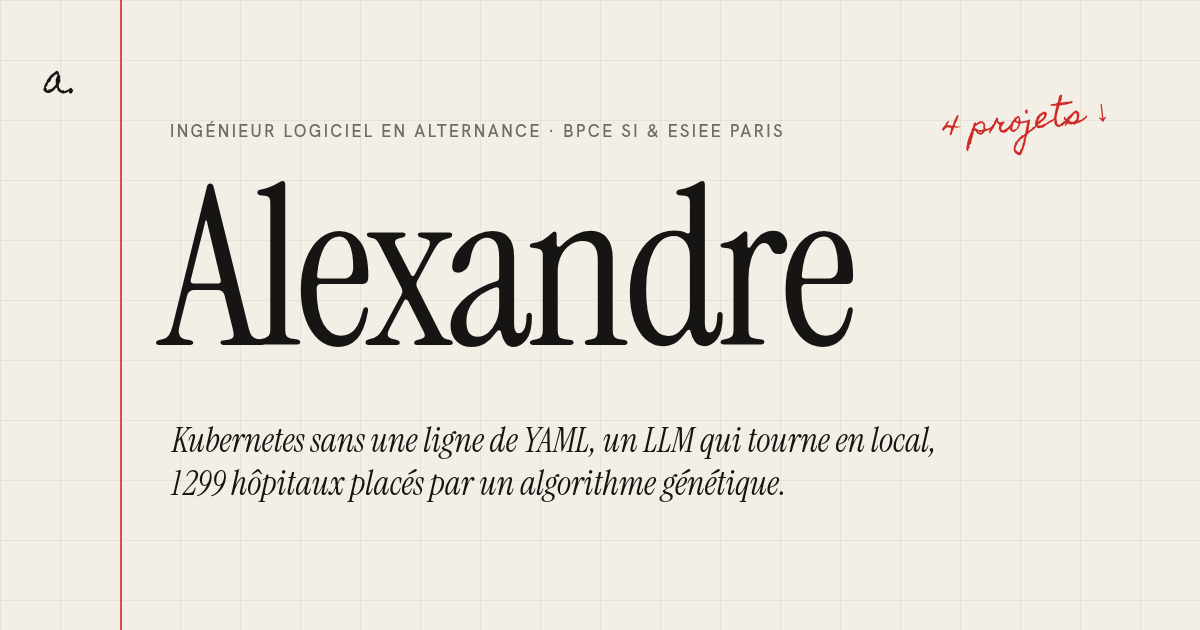
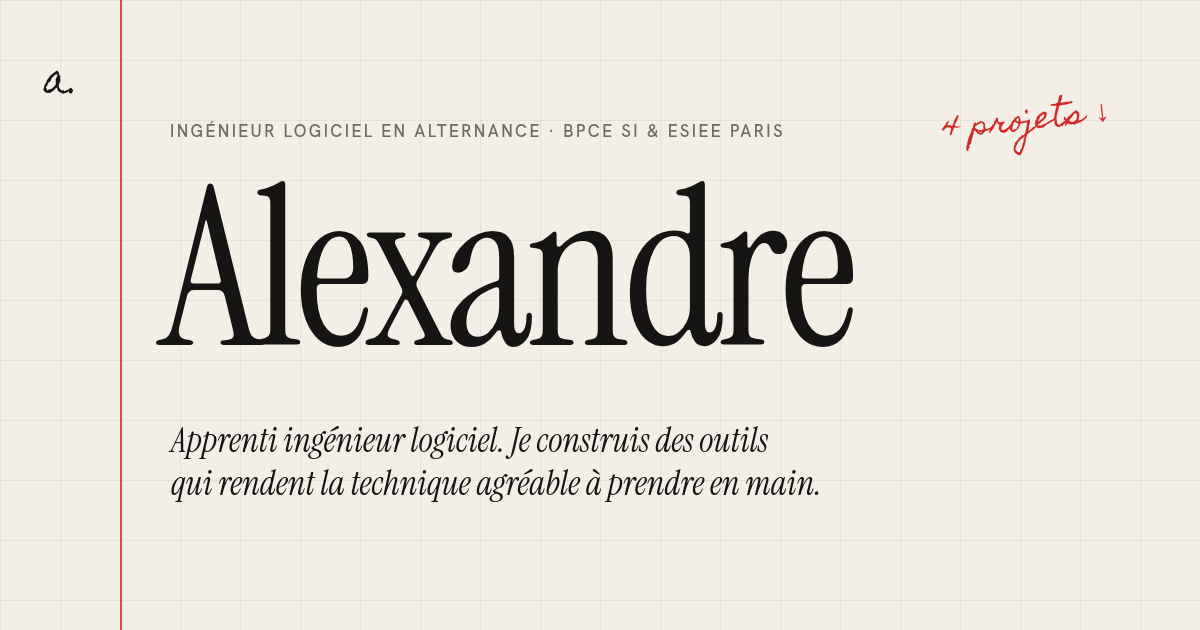
feat: nouvelle accroche, plus personnelle (site, aperçu de partage, JSON-LD)

Changed region(s): [[0.1233, 0.6635, 0.7708, 0.8143]]

diff --git a/index.html b/index.html
@@ -16,12 +16,12 @@
     <meta property="og:locale" content="fr_FR" />
     <meta property="og:site_name" content="Alexandre Guedes" />
     <meta property="og:title" content="Alexandre Guedes, ingénieur logiciel" />
-    <meta property="og:description" content="Kubernetes sans une ligne de YAML, un LLM qui tourne en local, 1 299 hôpitaux placés par un algorithme génétique." />
+    <meta property="og:description" content="Apprenti ingénieur logiciel. Je construis des outils qui rendent la technique agréable à prendre en main." />
     <meta property="profile:first_name" content="Alexandre" />
     <meta property="profile:last_name" content="Guedes" />
     <meta name="twitter:card" content="summary_large_image" />
     <meta name="twitter:title" content="Alexandre Guedes, ingénieur logiciel" />
-    <meta name="twitter:description" content="Kubernetes sans une ligne de YAML, un LLM qui tourne en local, 1 299 hôpitaux placés par un algorithme génétique." />
+    <meta name="twitter:description" content="Apprenti ingénieur logiciel. Je construis des outils qui rendent la technique agréable à prendre en main." />
     <!-- Au build, scripts/prerender.mjs remplace ce marqueur : canonical, og:url, og:image absolus, JSON-LD. -->
     <!--seo-head-->
     <!-- Sans JavaScript, le loader ne partirait jamais : on montre directement la page. -->

diff --git a/src/story/about.ts b/src/story/about.ts
@@ -10,7 +10,7 @@ export const IDENTITY = {
 export const FULL_NAME = `${IDENTITY.givenName} ${IDENTITY.familyName}`;
 
 export const ROLE ='Ingénieur logiciel en alternance · BPCE SI & ESIEE Paris';
-export const TAGLINE = 'Kubernetes sans une ligne de YAML, un LLM qui tourne en local, 1\u00a0299 hôpitaux placés par un algorithme génétique.';
+export const TAGLINE = 'Apprenti ingénieur logiciel. Je construis des outils qui rendent la technique agréable à prendre en main.';
 export const MANIFESTO =
   'Je prends un truc complexe et je le rends simple à manipuler. Pas en cachant la complexité : en lui donnant une forme qu’on peut attraper.';
 export const STACK = [
